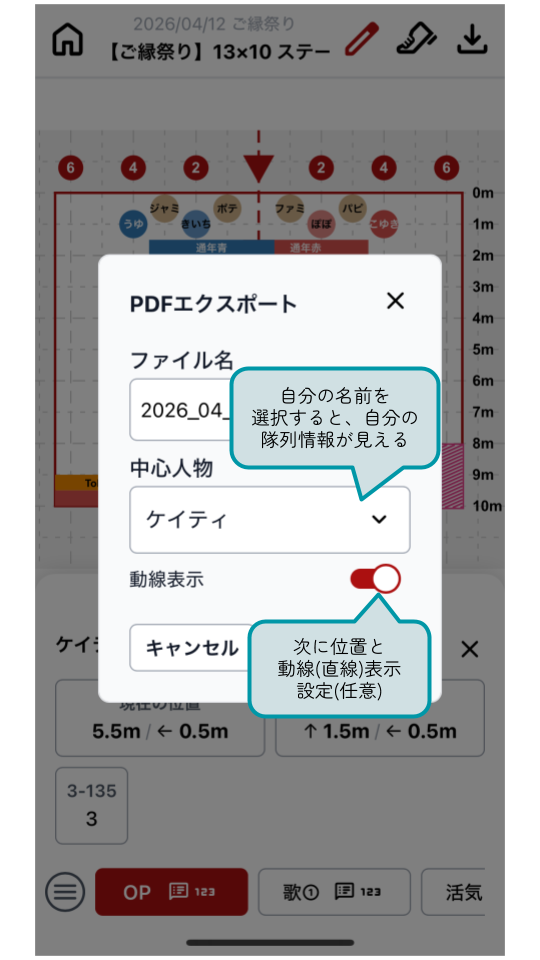
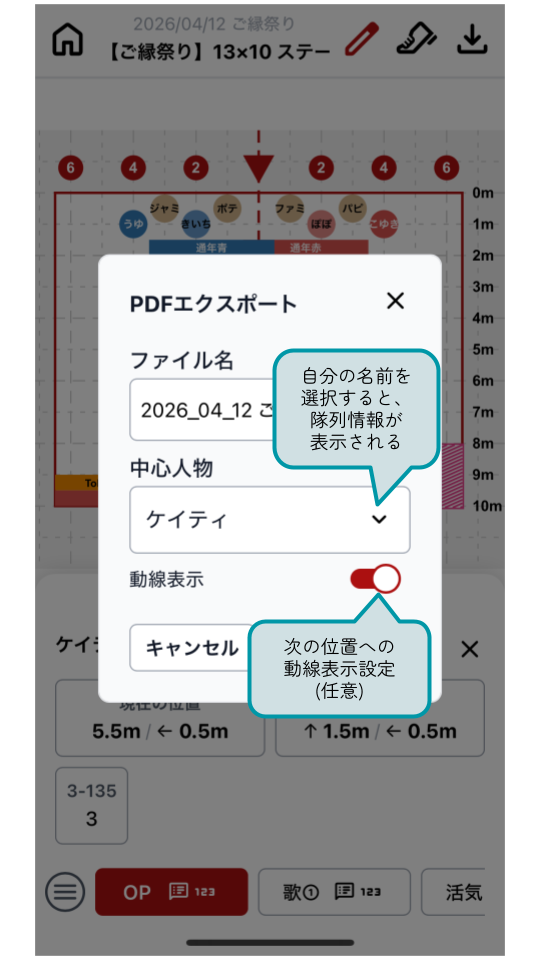
add 年 to the year update beginner guide screenshots

Changed region(s): [[0.4148, 0.3438, 0.8296, 0.5312], [0.5037, 0.6562, 0.7407, 0.75]]

diff --git a/src/pages/HomePage.tsx b/src/pages/HomePage.tsx
@@ -194,7 +194,7 @@ export default function HomePage({
     return Array.from(byEvent.entries()).reduce((acc, [key, items]) => {
       const parsed = JSON.parse(key) as EventDetails;
       const year = parsed.startDate
-        ? new Date(parsed.startDate).getFullYear().toString()
+        ? `${new Date(parsed.startDate).getFullYear().toString()}年`
         : "日程不明";
 
       if (!acc.has(year)) acc.set(year, new Map());
@@ -718,7 +718,7 @@ function EventSection({
           {event.event?.length === 0 ? "イベント不明" : event.event}
         </div>
         {
-          (event.startDate || event.endDate) && (event.event?.length ?? 0) === 0 &&
+          (event.startDate || event.endDate) && (event.event?.length ?? 0) > 0 &&
           <div className="p-0 m-0 text-sm font-bold text-gray-600">
             {formatDateRange(event.startDate, event.endDate, false)}
           </div>
